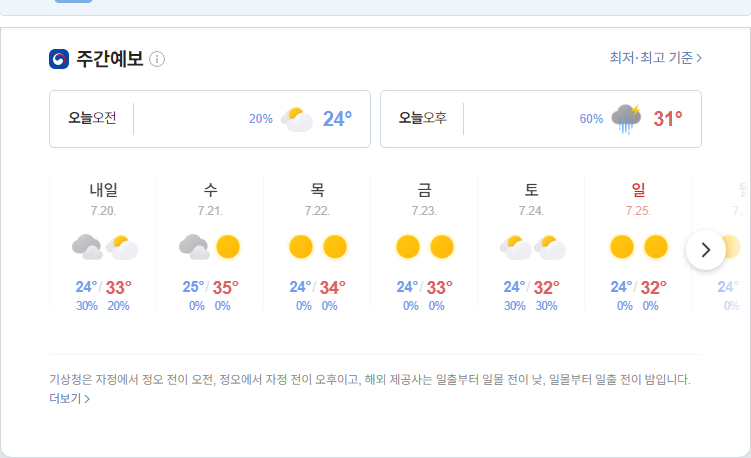
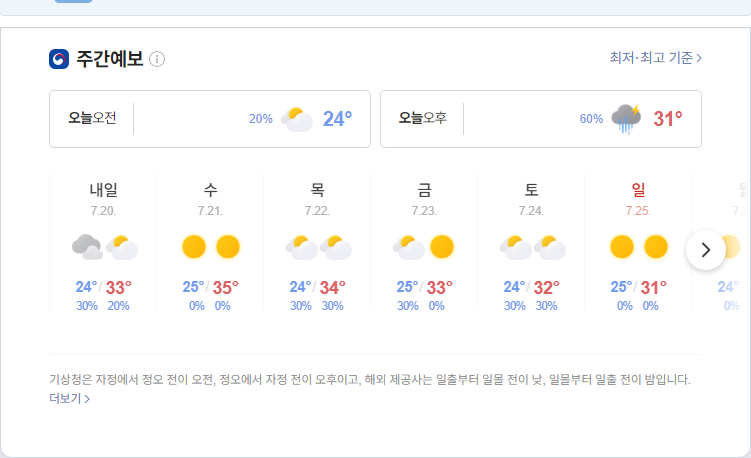
update result

diff --git a/README.md b/README.md
@@ -1,5 +1,5 @@
-##  2021-07-19 05:55:03   월요일 
-##### 날씨   -   어제와 같은 기온맑음  
+##  2021-07-19 09:16:45   월요일 
+##### 날씨   -   어제보다 1° 낮아요구름많음  
 <center><img src="../img/naver_weather_week.png"></center>
 ----
 ----
@@ -23,7 +23,7 @@
 ##### 시장
 <table border="1" bordercolor="blue" align = "center" >
 <tr align = "right" > <td>Item</td><td>Price</td><td>Diff</td><td>Rate</td><td>Buy</td><td>Sell</td><td>...</td>  </tr>
-<tr align = "right" > <td>USD</td><td>1,141.0</td><td>-1.0</td><td><font size="3" color="blue">-0.09%</font></td><td><font size="3" color="black">1,110</font></td><td><font size="3" color="black">0</font></td><td>0</td>  </tr>
+<tr align = "right" > <td>USD</td><td>1,144.0</td><td>3.1</td><td><font size="3" color="red">0.27%</font></td><td><font size="3" color="black">1,110</font></td><td><font size="3" color="black">0</font></td><td>0</td>  </tr>
 <tr align = "right" > <td>WTI</td><td>71.81</td><td>0.16</td><td><font size="3" color="red">0.22%</font></td><td><font size="3" color="black">29.0</font></td><td><font size="3" color="black">0</font></td><td>0</td>  </tr>
 <tr align = "right" > <td>GOLD</td><td>1,814.0</td><td>-13.9</td><td><font size="3" color="blue">-0.76%</font></td><td><font size="3" color="black">0</font></td><td><font size="3" color="black">0</font></td><td>0</td>  </tr>
 </table>
@@ -31,26 +31,26 @@
 ##### 주가
 <table border="1" bordercolor="blue" align = "center" >
 <tr align = "right" > <td>Item</td><td>Price</td><td>Diff</td><td>Rate</td><td>Purchased</td><td>Sell</td><td>Buy</td>  </tr>
-<tr align = "right" > <td>한국 전력</td><td>25,050</td><td>0</td><td><font size="3" color="black">0.0%</font></td><td>25,720</td><td><font size="3" color="black">27,700</font></td><td><font size="3" color="black">20,700</font></td>  </tr>
-<tr align = "right" > <td>삼성엔지니어.</td><td>22,850</td><td>250</td><td><font size="3" color="red">1.11%</font></td><td>18,935</td><td><font size="3" color="black">20,000</font></td><td><font size="3" color="black">8,000</font></td>  </tr>
-<tr align = "right" > <td>CJ CGV</td><td>30,150</td><td>300</td><td><font size="3" color="red">1.01%</font></td><td>34,895</td><td><font size="3" color="black">36,000</font></td><td><font size="3" color="black">0</font></td>  </tr>
-<tr align = "right" > <td>아모레퍼시픽</td><td>244,500</td><td>-500</td><td><font size="3" color="blue">-0.2%</font></td><td>235,350</td><td><font size="3" color="black">240,000</font></td><td><font size="3" color="black">130,000</font></td>  </tr>
-<tr align = "right" > <td>한화</td><td>30,600</td><td>-50</td><td><font size="3" color="blue">-0.16%</font></td><td>25,550</td><td><font size="3" color="black">26,250</font></td><td><font size="3" color="black">26,250</font></td>  </tr>
-<tr align = "right" > <td>NAVER</td><td>447,000</td><td>-2,000</td><td><font size="3" color="blue">-0.45%</font></td><td>147,200</td><td><font size="3" color="black">386,000</font></td><td><font size="3" color="black">286,000</font></td>  </tr>
-<tr align = "right" > <td>LG 화학우</td><td>380,000</td><td>3,500</td><td><font size="3" color="red">0.93%</font></td><td>202,490</td><td><font size="3" color="black">384,000</font></td><td><font size="3" color="orangered">384,000</font></td>  </tr>
-<tr align = "right" > <td>스튜디오드래.</td><td>95,200</td><td>600</td><td><font size="3" color="red">0.63%</font></td><td>81,243</td><td><font size="3" color="black">85,200</font></td><td><font size="3" color="black">85,200</font></td>  </tr>
-<tr align = "right" > <td>QV미국IT</td><td>31,325</td><td>-305</td><td><font size="3" color="blue">-0.96%</font></td><td>0</td><td><font size="3" color="black">30,000</font></td><td><font size="3" color="black">20,000</font></td>  </tr>
-<tr align = "right" > <td>삼성 전자우</td><td>72,900</td><td>-200</td><td><font size="3" color="blue">-0.27%</font></td><td>48,250</td><td><font size="3" color="black">56,000</font></td><td><font size="3" color="black">45,000</font></td>  </tr>
-<tr align = "right" > <td>LS</td><td>70,400</td><td>-700</td><td><font size="3" color="blue">-0.98%</font></td><td>71,900</td><td><font size="3" color="black">82,000</font></td><td><font size="3" color="black">60,000</font></td>  </tr>
-<tr align = "right" > <td>한화에어로스.</td><td>51,500</td><td>800</td><td><font size="3" color="red">1.58%</font></td><td>25,700</td><td><font size="3" color="black">30,000</font></td><td><font size="3" color="black">24,000</font></td>  </tr>
-<tr align = "right" > <td>카카오</td><td>157,000</td><td>-2,500</td><td><font size="3" color="blue">-1.57%</font></td><td>405,500</td><td><font size="3" color="black">440,000</font></td><td><font size="3" color="orangered">400,000</font></td>  </tr>
-<tr align = "right" > <td>호텔 신라</td><td>95,000</td><td>600</td><td><font size="3" color="red">0.64%</font></td><td>72,800</td><td><font size="3" color="black">100,000</font></td><td><font size="3" color="black">70,000</font></td>  </tr>
-<tr align = "right" > <td>S-Oil</td><td>98,800</td><td>-2,700</td><td><font size="3" color="blue">-2.66%</font></td><td>62,842</td><td><font size="3" color="black">100,000</font></td><td><font size="3" color="black">50,000</font></td>  </tr>
-<tr align = "right" > <td>LG전자</td><td>160,500</td><td>-500</td><td><font size="3" color="blue">-0.31%</font></td><td>82,022</td><td><font size="3" color="black">100,000</font></td><td><font size="3" color="black">60,000</font></td>  </tr>
-<tr align = "right" > <td>KT&G</td><td>83,700</td><td>300</td><td><font size="3" color="red">0.36%</font></td><td>80,400</td><td><font size="3" color="black">100,000</font></td><td><font size="3" color="black">70,000</font></td>  </tr>
-<tr align = "right" > <td>지역난방공사</td><td>42,650</td><td>-50</td><td><font size="3" color="blue">-0.12%</font></td><td>43,590</td><td><font size="3" color="black">60,000</font></td><td><font size="3" color="black">30,000</font></td>  </tr>
-<tr align = "right" > <td>KOEDX은행</td><td>7,380</td><td>50</td><td><font size="3" color="red">0.68%</font></td><td>5,178</td><td><font size="3" color="black">6,225</font></td><td><font size="3" color="black">6,225</font></td>  </tr>
-<tr align = "right" > <td>글로벌럭셔리</td><td>18,035</td><td>-155</td><td><font size="3" color="blue">-0.85%</font></td><td>15,260</td><td><font size="3" color="black">20,000</font></td><td><font size="3" color="black">10,000</font></td>  </tr>
-<tr align = "right" > <td>한국금융지주</td><td>104,000</td><td>500</td><td><font size="3" color="red">0.48%</font></td><td>0</td><td><font size="3" color="black">82,000</font></td><td><font size="3" color="black">60,000</font></td>  </tr>
+<tr align = "right" > <td>한국 전력</td><td>25,350</td><td>300</td><td><font size="3" color="red">1.2%</font></td><td>25,720</td><td><font size="3" color="black">27,700</font></td><td><font size="3" color="black">20,700</font></td>  </tr>
+<tr align = "right" > <td>삼성엔지니어.</td><td>22,450</td><td>-400</td><td><font size="3" color="blue">-1.75%</font></td><td>18,935</td><td><font size="3" color="black">20,000</font></td><td><font size="3" color="black">8,000</font></td>  </tr>
+<tr align = "right" > <td>CJ CGV</td><td>29,800</td><td>-350</td><td><font size="3" color="blue">-1.16%</font></td><td>34,895</td><td><font size="3" color="black">36,000</font></td><td><font size="3" color="black">0</font></td>  </tr>
+<tr align = "right" > <td>아모레퍼시픽</td><td>241,500</td><td>-3,000</td><td><font size="3" color="blue">-1.23%</font></td><td>235,350</td><td><font size="3" color="black">240,000</font></td><td><font size="3" color="black">130,000</font></td>  </tr>
+<tr align = "right" > <td>한화</td><td>30,250</td><td>-350</td><td><font size="3" color="blue">-1.14%</font></td><td>25,550</td><td><font size="3" color="black">26,250</font></td><td><font size="3" color="black">26,250</font></td>  </tr>
+<tr align = "right" > <td>NAVER</td><td>444,000</td><td>-3,000</td><td><font size="3" color="blue">-0.67%</font></td><td>147,200</td><td><font size="3" color="black">386,000</font></td><td><font size="3" color="black">286,000</font></td>  </tr>
+<tr align = "right" > <td>LG 화학우</td><td>378,500</td><td>-1,500</td><td><font size="3" color="blue">-0.39%</font></td><td>202,490</td><td><font size="3" color="black">384,000</font></td><td><font size="3" color="orangered">384,000</font></td>  </tr>
+<tr align = "right" > <td>스튜디오드래.</td><td>94,600</td><td>-600</td><td><font size="3" color="blue">-0.63%</font></td><td>81,243</td><td><font size="3" color="black">85,200</font></td><td><font size="3" color="black">85,200</font></td>  </tr>
+<tr align = "right" > <td>QV미국IT</td><td>31,030</td><td>-295</td><td><font size="3" color="blue">-0.94%</font></td><td>0</td><td><font size="3" color="black">30,000</font></td><td><font size="3" color="black">20,000</font></td>  </tr>
+<tr align = "right" > <td>삼성 전자우</td><td>72,400</td><td>-500</td><td><font size="3" color="blue">-0.69%</font></td><td>48,250</td><td><font size="3" color="black">56,000</font></td><td><font size="3" color="black">45,000</font></td>  </tr>
+<tr align = "right" > <td>LS</td><td>69,500</td><td>-900</td><td><font size="3" color="blue">-1.28%</font></td><td>71,900</td><td><font size="3" color="black">82,000</font></td><td><font size="3" color="black">60,000</font></td>  </tr>
+<tr align = "right" > <td>한화에어로스.</td><td>51,800</td><td>300</td><td><font size="3" color="red">0.58%</font></td><td>25,700</td><td><font size="3" color="black">30,000</font></td><td><font size="3" color="black">24,000</font></td>  </tr>
+<tr align = "right" > <td>카카오</td><td>155,000</td><td>-2,000</td><td><font size="3" color="blue">-1.27%</font></td><td>405,500</td><td><font size="3" color="black">440,000</font></td><td><font size="3" color="orangered">400,000</font></td>  </tr>
+<tr align = "right" > <td>호텔 신라</td><td>93,800</td><td>-1,200</td><td><font size="3" color="blue">-1.26%</font></td><td>72,800</td><td><font size="3" color="black">100,000</font></td><td><font size="3" color="black">70,000</font></td>  </tr>
+<tr align = "right" > <td>S-Oil</td><td>98,200</td><td>-600</td><td><font size="3" color="blue">-0.61%</font></td><td>62,842</td><td><font size="3" color="black">100,000</font></td><td><font size="3" color="black">50,000</font></td>  </tr>
+<tr align = "right" > <td>LG전자</td><td>158,000</td><td>-2,500</td><td><font size="3" color="blue">-1.56%</font></td><td>82,022</td><td><font size="3" color="black">100,000</font></td><td><font size="3" color="black">60,000</font></td>  </tr>
+<tr align = "right" > <td>KT&G</td><td>83,200</td><td>-500</td><td><font size="3" color="blue">-0.6%</font></td><td>80,400</td><td><font size="3" color="black">100,000</font></td><td><font size="3" color="black">70,000</font></td>  </tr>
+<tr align = "right" > <td>지역난방공사</td><td>42,500</td><td>-150</td><td><font size="3" color="blue">-0.35%</font></td><td>43,590</td><td><font size="3" color="black">60,000</font></td><td><font size="3" color="black">30,000</font></td>  </tr>
+<tr align = "right" > <td>KOEDX은행</td><td>7,285</td><td>-95</td><td><font size="3" color="blue">-1.29%</font></td><td>5,178</td><td><font size="3" color="black">6,225</font></td><td><font size="3" color="black">6,225</font></td>  </tr>
+<tr align = "right" > <td>글로벌럭셔리</td><td>17,820</td><td>-215</td><td><font size="3" color="blue">-1.19%</font></td><td>15,260</td><td><font size="3" color="black">20,000</font></td><td><font size="3" color="black">10,000</font></td>  </tr>
+<tr align = "right" > <td>한국금융지주</td><td>102,500</td><td>-1,500</td><td><font size="3" color="blue">-1.44%</font></td><td>0</td><td><font size="3" color="black">82,000</font></td><td><font size="3" color="black">60,000</font></td>  </tr>
 </table>
 ----
